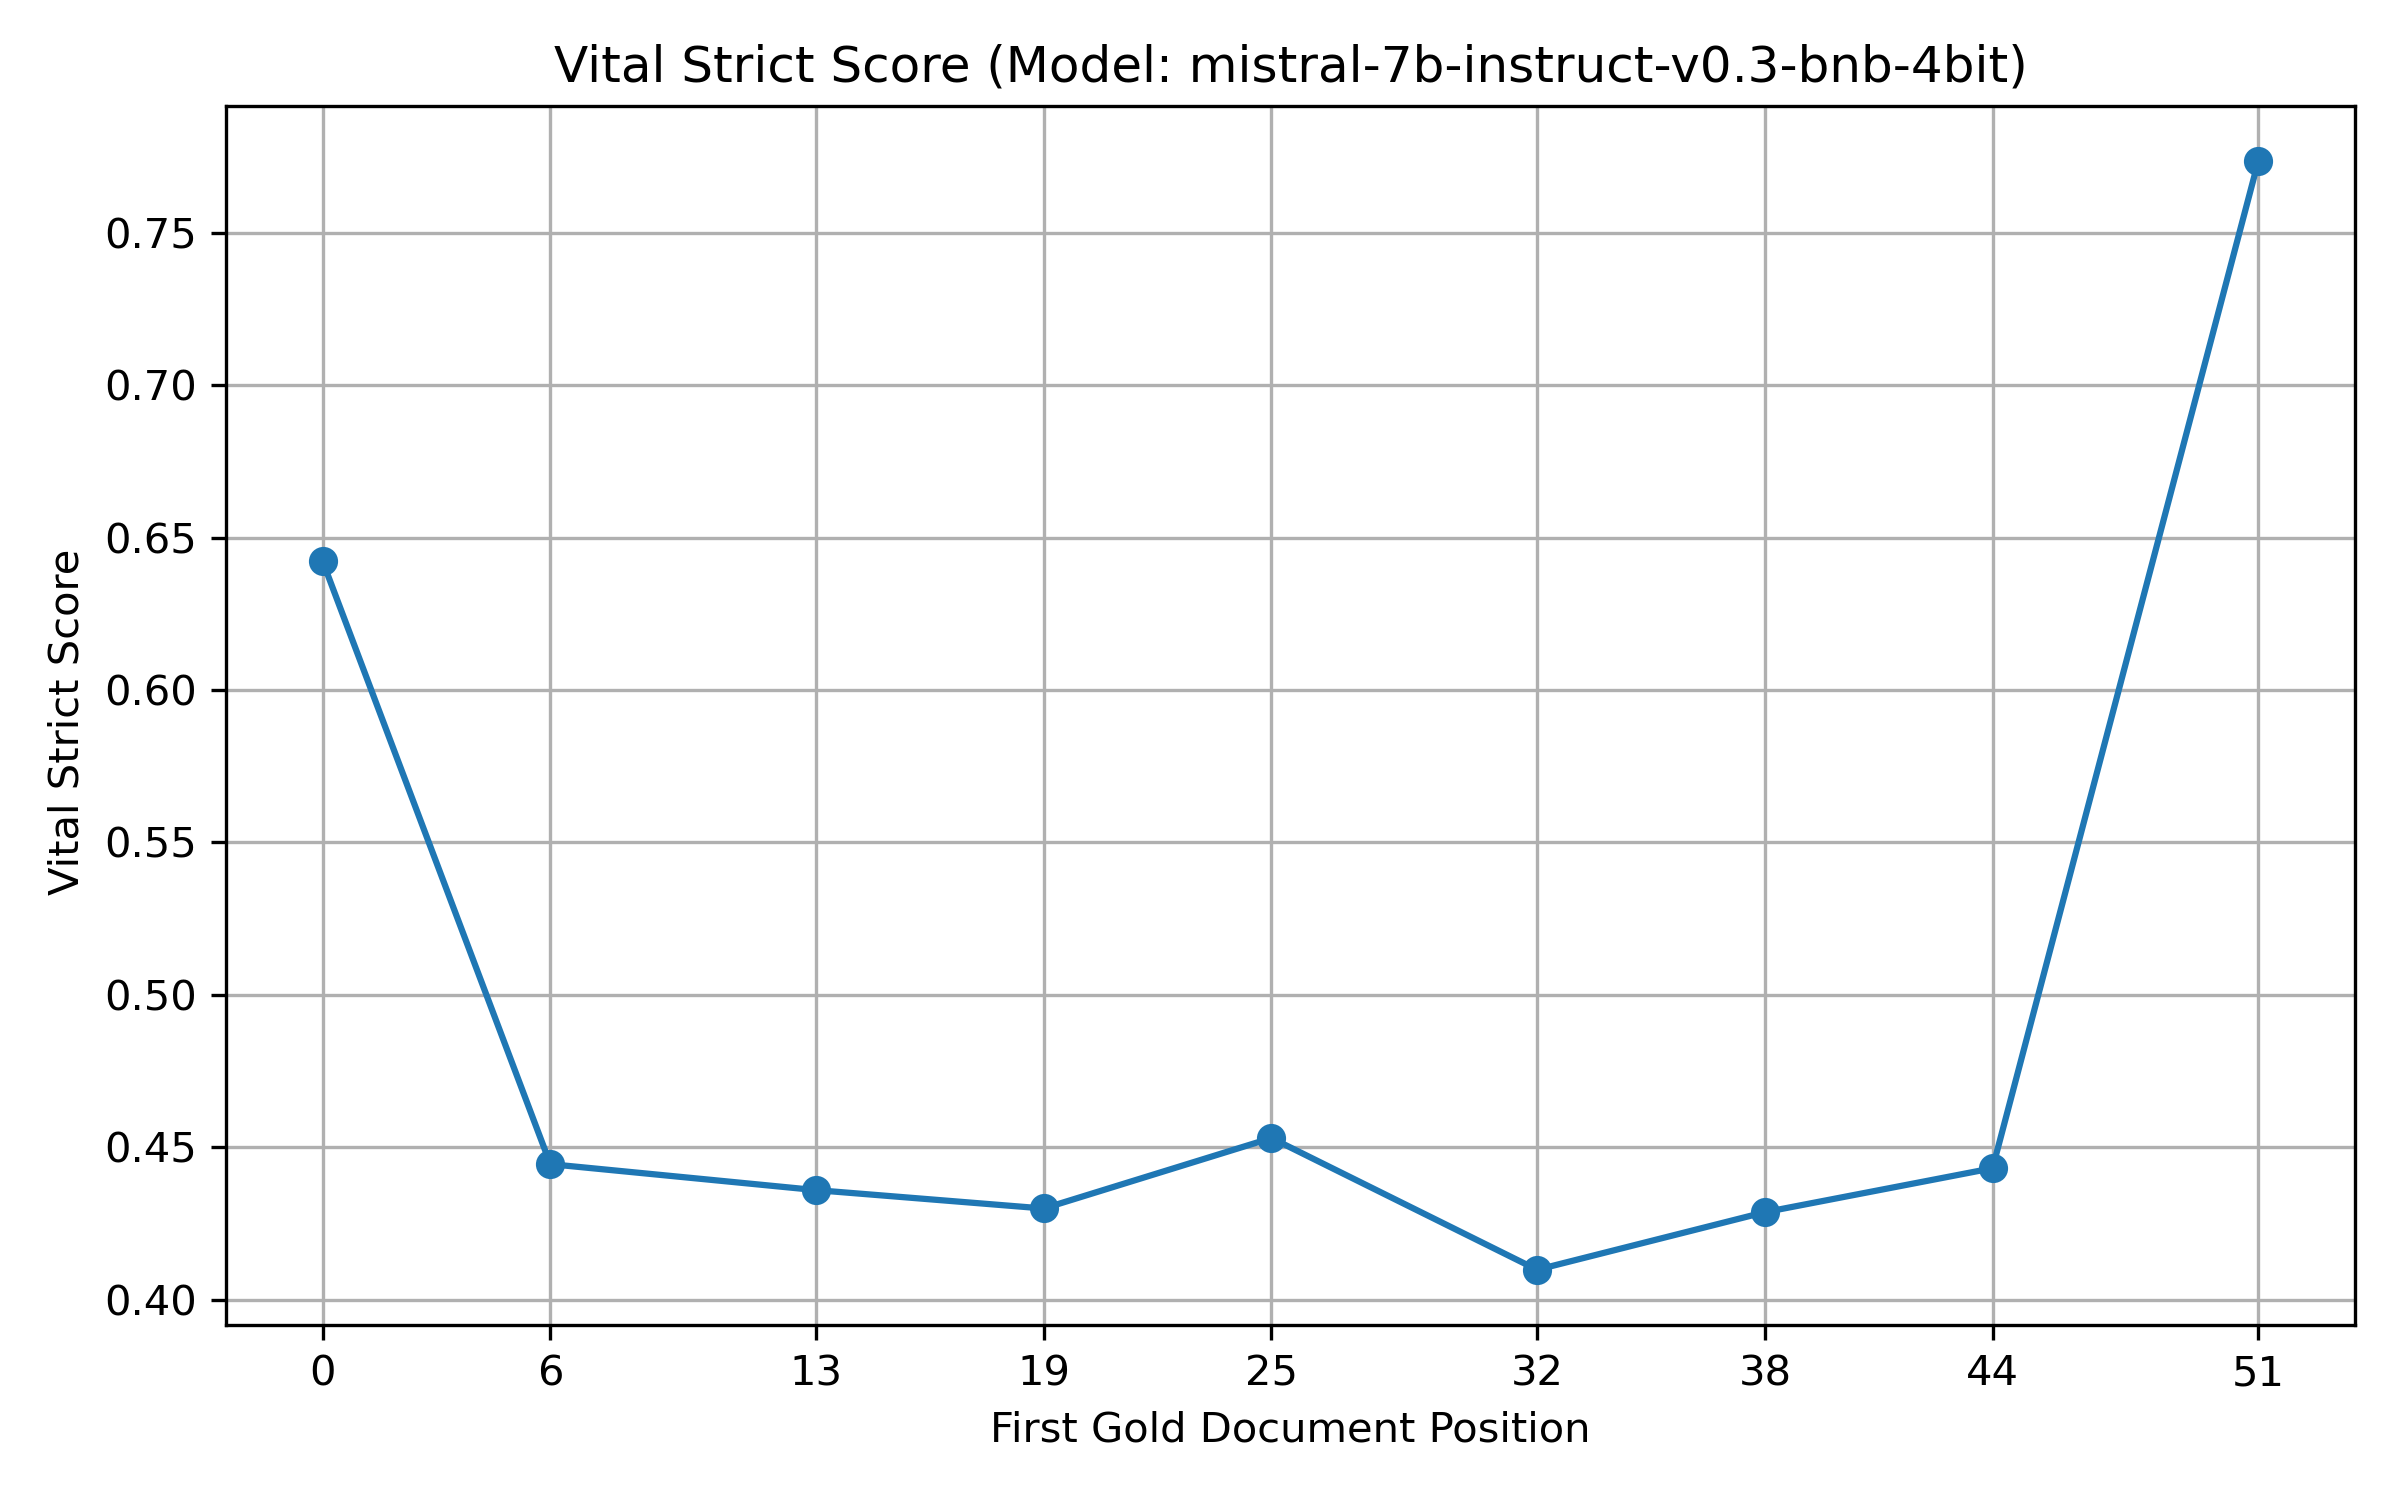
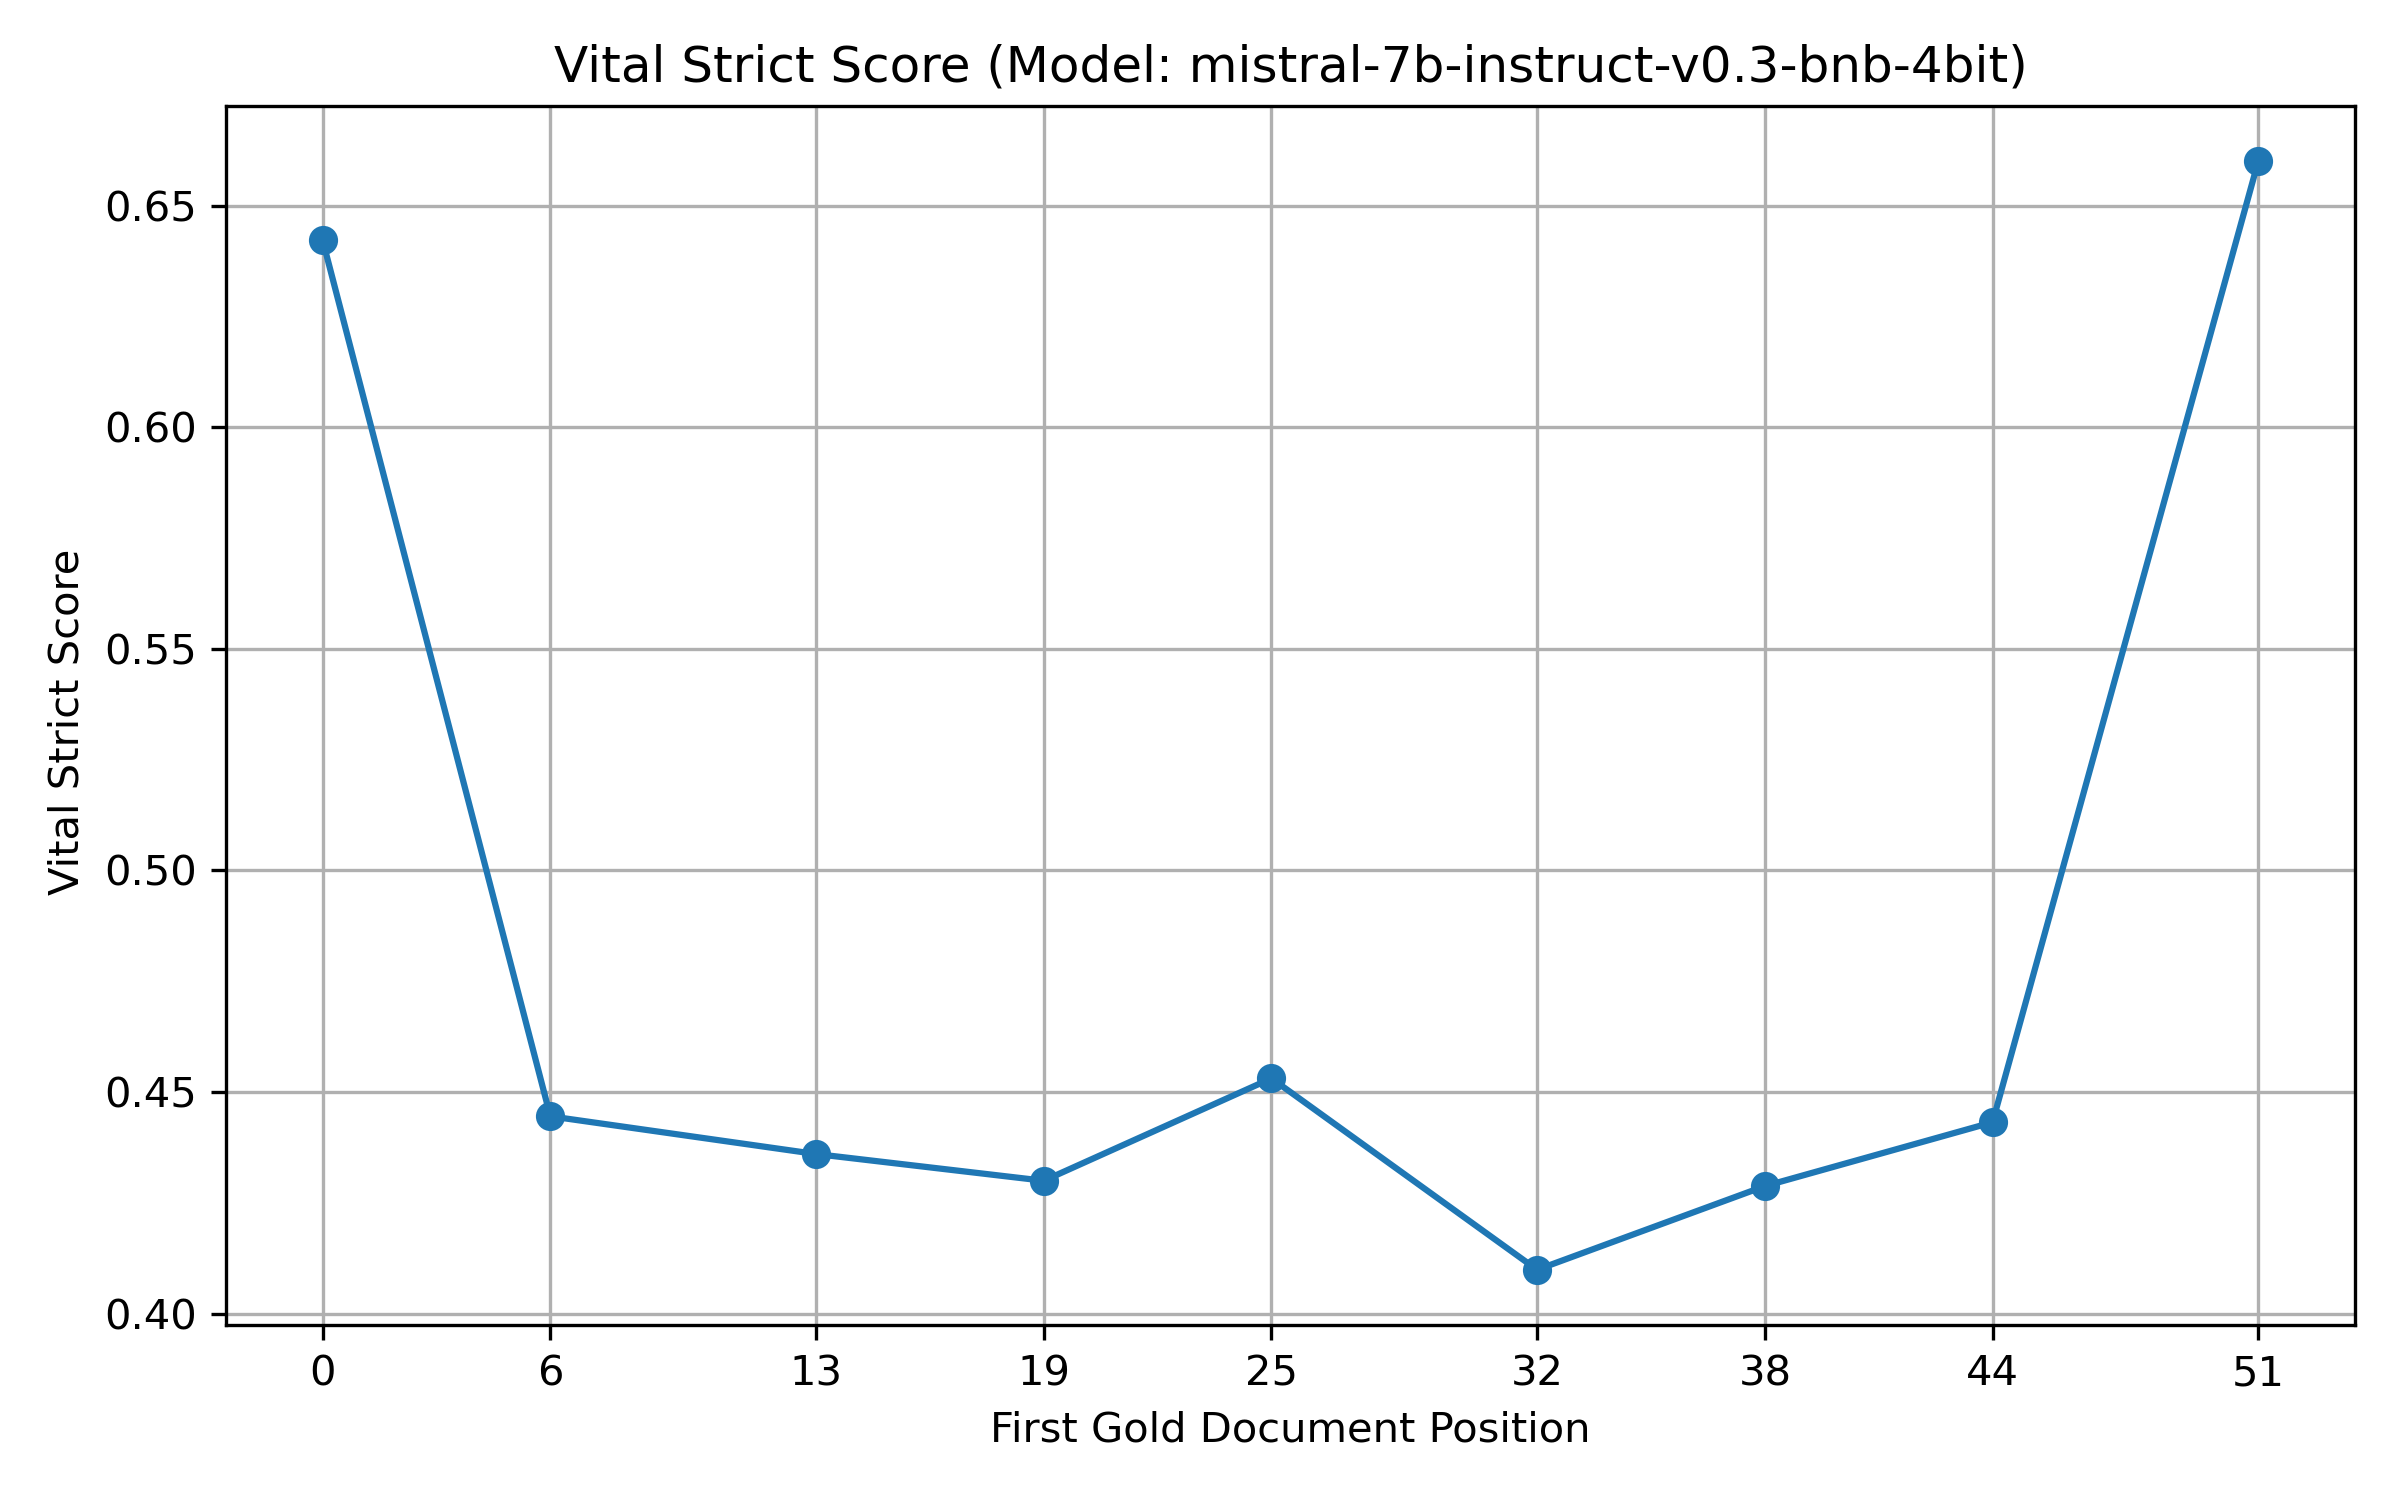
analysis in progress

diff --git a/TREC-RAG_2024_Analysis/Discriminator_and_Noise/Noise/Correctness_Analysis/test.py b/TREC-RAG_2024_Analysis/Discriminator_and_Noise/Noise/Correctness_Analysis/test.py
@@ -176,7 +176,7 @@ with open(r'/home/irlab/sagnik/TREC-RAG_2024_Analysis/Discriminator_and_Noise/No
 
 l1=[]
 
-for i in inp1:
+for i in inp2:
     temp1=i['first_gold_doc_pos']
     temp2=i['corpus_position']
 
@@ -187,3 +187,83 @@ for i in l1:
     l2.append(l1.count(i))
 
 print(set(l2))
+
+################################################
+##################################################
+
+
+# import json
+
+# inp1=[]
+# with open(r'/home/irlab/sagnik/TREC-RAG_2024_Analysis/Discriminator_and_Noise/Discriminator/Correctness_Analysis/misc/pipeline_output_mistral-7b-instruct-v0.3-bnb-4bit.jsonl','r') as f:
+#     for i in f:
+#         inp1.append(json.loads(i))
+
+# inp2=[]
+# with open(r'/home/irlab/sagnik/TREC-RAG_2024_Analysis/Discriminator_and_Noise/Noise/Correctness_Analysis/misc/pipeline_output_mistral-7b-instruct-v0.3-bnb-4bit.jsonl','r') as f:
+#     for i in f:
+#         inp2.append(json.loads(i))
+
+
+# k=[]
+
+# itr=inp1
+
+# for i in itr:
+#     temp1=i['first_gold_doc_pos']
+#     if temp1 not in k:
+#         k.append(temp1)
+
+
+# out=[]
+# for i in k:
+#     count=0
+#     for j in itr:
+#         temp2=j['first_gold_doc_pos']
+        
+#         if temp2==i:
+#             count+=1
+    
+#     out.append(count)
+
+
+# print(k,out)
+
+#####################################################
+#####################################################
+
+
+# import json
+
+# inp1=[]
+# with open(r'/home/irlab/sagnik/TREC-RAG_2024_Analysis/Discriminator_and_Noise/Discriminator/Correctness_Analysis/misc/pipeline_output_mistral-7b-instruct-v0.3-bnb-4bit.jsonl','r') as f:
+#     for i in f:
+#         inp1.append(json.loads(i))
+
+# inp2=[]
+# with open(r'/home/irlab/sagnik/TREC-RAG_2024_Analysis/Discriminator_and_Noise/Noise/Correctness_Analysis/misc/pipeline_output_mistral-7b-instruct-v0.3-bnb-4bit.jsonl','r') as f:
+#     for i in f:
+#         inp2.append(json.loads(i))
+
+# k=[]
+
+# itr=inp2
+
+# out=[]
+
+# for j in itr:
+#     temp2=j['first_gold_doc_pos']
+#     temp3=j['corpus_position']
+
+#     if temp2==38:
+#         if temp3 not in out:
+#             out.append(temp3)
+
+
+# # ref=list(range(125))
+
+# # for i in out:
+# #     if i not in ref:
+# #         print(i)
+
+# print(sorted(out))
